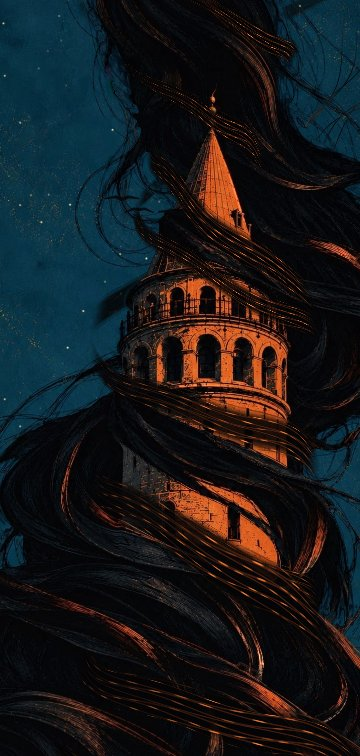
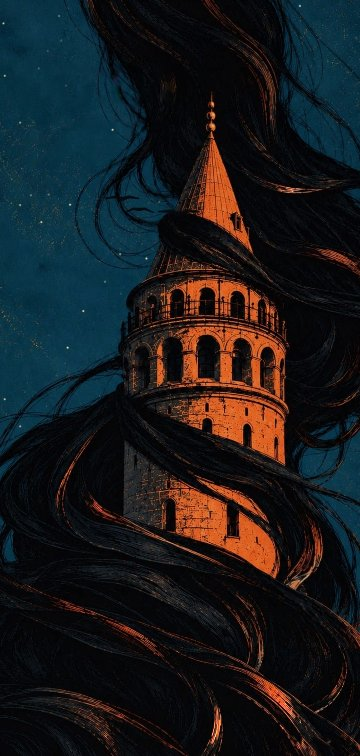
Galata v4: whole-hair motion without tearing
The user saw breaks in the hair. Replace the overlaid spiral tufts and
two-phase strand advection with one continuous displacement field
(upward-travelling broad waves plus curl-noise drift). It fades to zero
over ~80 px toward the tower via a distance-based ramp, so nothing tears
and the tower stays completely still. Drop the breathing zoom, which
moved the tower, and soften the tilt parallax layer.

Claude-Session: https://claude.ai/code/session_01YDTfGQpyesgHFUKj7FpP8g

diff --git a/wallpapers/app/src/main/java/com/cincikgames/duvar/Wallpapers.kt b/wallpapers/app/src/main/java/com/cincikgames/duvar/Wallpapers.kt
@@ -19,7 +19,7 @@ data class WallpaperDef(
 
 object Wallpapers {
     val all = listOf(
-        WallpaperDef("galata", "Galata Saçları", "Zeminden gökyüzüne yükselen saç spirali · telefonu eğ, dokun",
+        WallpaperDef("galata", "Galata Saçları", "Kuleyi saran saçlar bütün halinde dalgalanır · telefonu eğ, dokun",
             "galata", listOf("textures/galata.jpg", "textures/galata_flow.png", "textures/galata_aux.png"), 1.0f, usesTilt = true),
         WallpaperDef("istanbul", "İstanbul Gecesi", "Hilal, aydınlatılmış camiler, boğazda vapur", "istanbul", renderScale = 0.75f),
         WallpaperDef("aurora", "Kuzey Işıkları", "Karlı dağlar ve gölde dans eden aurora", "aurora", renderScale = 0.5f),

diff --git a/tools/galata_maps.py b/tools/galata_maps.py
@@ -3,7 +3,7 @@
 Çıktılar (yarım çözünürlük PNG):
   flow.png  R = 0.5*(1 + saç - gökyüzü)   (gökyüzü 0, kule 0.5, saç 1)
             G,B = yönlü akış vektörü * 0.5 + 0.5  (tel boyunca, tutarlı işaretli)
-  aux.png   R = kule maskesi, G = pencere maskesi, B = saç bandı (kule önünde)
+  aux.png   R = paralaks katmanı, G = hareket ağırlığı, B = saç bandı (kule önünde)
 
 Tel yönünün işareti (ileri/geri) yapı tensöründen gelmez; komşular arasında en
 iyi hizalanandan başlayarak yayılan bir ağaç (Prim) ile tutarlı hale getirilir,
@@ -136,7 +136,18 @@ FY = cv2.GaussianBlur(up(fy * strength), (0, 0), 1.5)
 
 half = lambda a: cv2.resize(a, (hw, hh), interpolation=cv2.INTER_AREA)
 flow = np.dstack([FY * 0.5 + 0.5, FX * 0.5 + 0.5, half(0.5 * (1 + hair - sky))])
-aux = np.dstack([half(band), half(windows), half(tower_soft)])
+# Hareket ağırlığı: kule taşından (saç bantları hariç) uzaklaştıkça 0 -> 1.
+# Kenarda yumuşak bir rampa (~80 px) olduğu için hareket hiçbir yerde kopmaz.
+static = (tower_hard > 0) & ~(cv2.GaussianBlur(band, (0, 0), 1) > 0.5)
+dist = ndimage.distance_transform_edt(~static).astype(np.float32)
+ramp = np.clip(dist / 80.0, 0, 1)
+ramp = ramp * ramp * (3 - 2 * ramp)
+hair_near = np.clip(cv2.GaussianBlur(hair, (0, 0), 45) * 1.5, 0, 1)
+motion = ramp * (0.25 + 0.75 * hair_near)
+motion = cv2.GaussianBlur(motion, (0, 0), 4)
+# Paralaks katmanı: çok yumuşak (keskin farklar eğince yırtılma yapar).
+layer = cv2.GaussianBlur(np.clip(hair * ramp, 0, 1), (0, 0), 40)
+aux = np.dstack([half(band), half(motion), half(layer)])
 cv2.imwrite(out_flow, np.clip(flow * 255 + 0.5, 0, 255).astype(np.uint8))
 cv2.imwrite(out_aux, np.clip(aux * 255 + 0.5, 0, 255).astype(np.uint8))
 

diff --git a/README.md b/README.md
@@ -25,7 +25,7 @@ https://github.com/ilkayrodo-commits/cincikgames/releases/latest
 
 | | Sahne | Hareket |
 |---|---|---|
-| 1 | Galata Saçları | Kullanıcının duvar kağıdı: saçlar zeminden başlayıp kulenin etrafında dönerek gökyüzüne yükselen bir spiral çizer; tüm saç kütlesi yukarı akar ve burgu gibi döner, tepede girdap gibi açılır. Kule sabit. Telefonu eğince derinlik (paralaks), dokununca saçlar itilir. |
+| 1 | Galata Saçları | Kullanıcının duvar kağıdı: saçlar tek parça, kopmasız bir hareket alanıyla kendi üzerinde dalgalanır (yukarı ilerleyen geniş dalgalar + akışkan kıvrılma). Kule tamamen sabit. Telefonu eğince derinlik, dokununca saçlar itilir. |
 | 2 | İstanbul Gecesi | Hilal, aydınlatılmış camiler, boğazda yansımalar, geçen vapur |
 | 3 | Kuzey Işıkları | Karlı dağlar, göl yansıması, aurora perdeleri |
 | 4 | Retro Gün Batımı | Neon ızgara, çizgili güneş |
@@ -38,7 +38,7 @@ https://github.com/ilkayrodo-commits/cincikgames/releases/latest
 
 - Sahneler `app/src/main/assets/shaders/*.frag` (GLSL ES 1.0, ortak başlık `common.glsl`).
 - Galata görüntüsü `tools/clean_galata.py` ile ekran görüntüsündeki saat/tarih/simgelerden temizlendi,
-  haritalar `tools/galata_maps.py` ile üretildi: yönlü tel akışı (işaret tutarlılığı için Prim yayılımı),
-  saç/gökyüzü/kule ayrımı, kuleyi saran bantlar ve pencereler.
+  haritalar `tools/galata_maps.py` ile üretildi: saç/gökyüzü/kule ayrımı, kuleye yaklaştıkça ~80 px'lik
+  rampayla sıfıra inen hareket ağırlığı ve yumuşak paralaks katmanı.
 - `tools/render_shader.js`: sahneleri başsız Chromium'da WebGL ile çizer (önizleme/küçük resim).
 - Pil için ~30 fps, görünmezken durur; ağır sahneler düşük çözünürlükte çizilip büyütülür.
